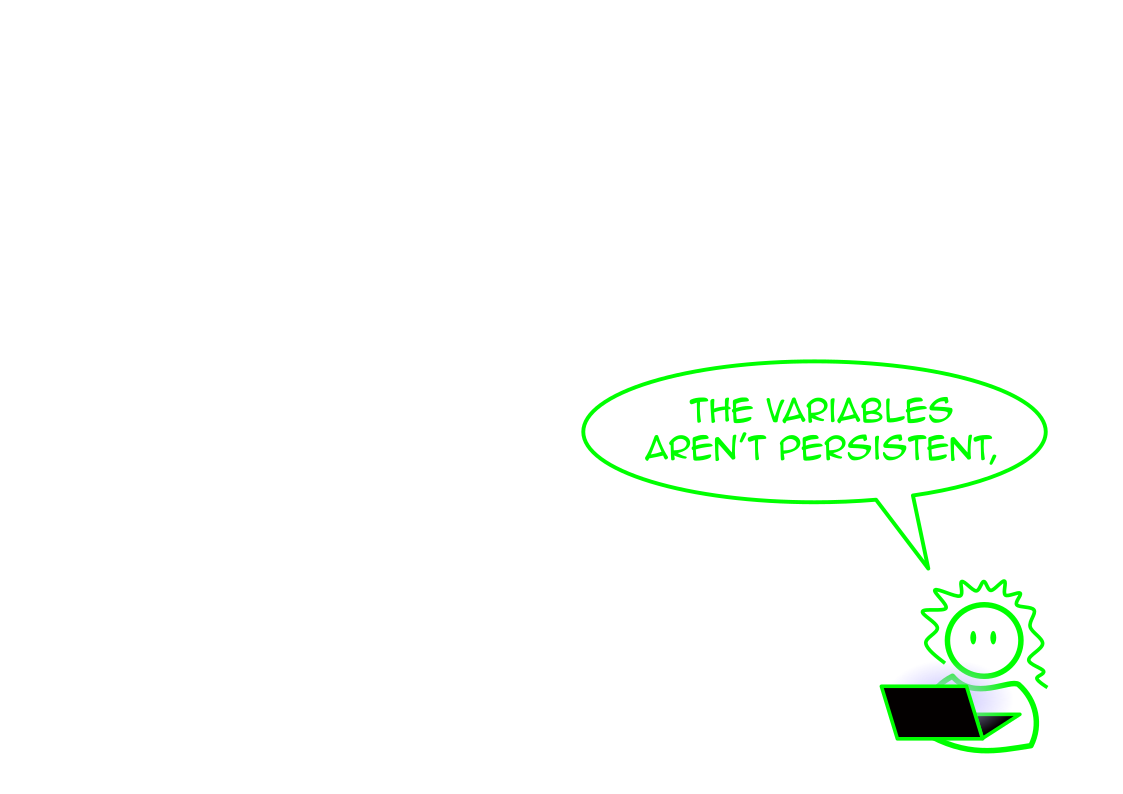
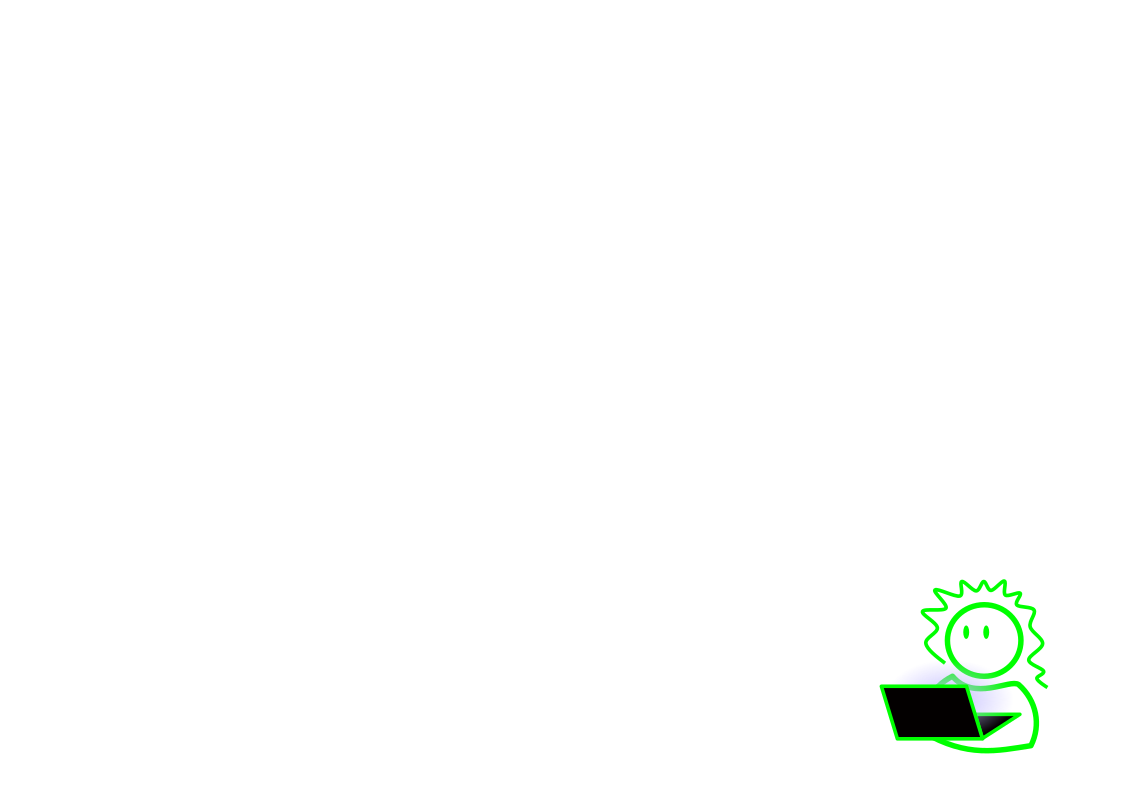
Removed some unnecessary slides, smoothed out animations.

diff --git a/index.html b/index.html
@@ -34,6 +34,12 @@
           </section>
         </section>
 
+        <section>
+          <h2>"Where's the links?"</h2>
+          <p>socketwench.github.io/avoidDeepHurting</p>
+          <small>Yeah, it's case sensitive</small>
+        </section>
+
 				<section>
           <section data-transition="none">
             <img src="images/socketwench1.png" />
@@ -63,20 +69,6 @@
             <h1>Deploying Drupal</h1>
             <h2>A history</h2>
           </section>
-          <!-- <section>
-            <pre style="font-size:1em;">
-      _________________
-    /                   \
-    |  Time to deploy!  |
-    \                   /
-      -----------------
-             \   ^__^
-              \  (oo)\_______
-                 (__)\       )\/\
-                     ||----w |
-                     ||     ||
-            </pre>
-          </section> -->
           <section>
             <h2>Remember...</h2>
             <p class="fragment">FTP&gt; <span class="blink_me">&block;</span></p>
@@ -423,14 +415,14 @@ localhost ansible_connection=local</code></pre>
              <img src="images/threeDirectories10.png" />
            </section>
            <section>
-             <h2>Ready before Go-live</h2>
-             <p class="fragment"><em>Artefacts</em> created before switchover</p>
-             <p class="fragment">Generated assets, compiled SASS, etc.</p>
-           </section>
-           <section>
              <h2>No more .gitignore hell</h2>
              <p class="fragment">Git directory only mirrors the repo</p>
              <p class="fragment">No more <code>git clean -df</code></p>
+           </section>
+           <section>
+             <h2>Ready before Go-live</h2>
+             <p class="fragment"><em>Artefacts</em> created before switchover</p>
+             <p class="fragment">Generated assets, compiled SASS, etc.</p>
            </section>
            <section>
              <h2>"Zero" downtime</h2>
@@ -662,12 +654,6 @@ localhost ansible_connection=local</code></pre>
             <img src="images/ciProcess6.png" />
           </section>
           <section>
-            <h2>Self-hosted, OSS CIs</h2>
-            <p class="fragment">Jenkins</p>
-            <p class="fragment">Circle CI</p>
-            <p class="fragment">Many others!</p>
-          </section>
-          <section>
             <h2>Gitlab CI</h2>
             <p class="fragment">Integrated with Gitlab CE</p>
             <p class="fragment">Free and OSS</p>
@@ -722,7 +708,7 @@ runner:
             <p class="fragment">...to a series of steps to execute</p>
           </section>
           <section data-transition="none">
-            <pre><code class="yaml">stages:
+            <pre><code class="yaml" style="font-size: 0.9em;">stages:
   - deploy
 
 job_live_deploy:
@@ -745,7 +731,7 @@ job_live_deploy:
 </code></pre>
           </section>
           <section data-transition="none">
-            <pre><code class="yaml">stages:
+            <pre><code class="yaml" style="font-size: 0.9em;">stages:
   - deploy
 
 job_live_deploy:
@@ -874,11 +860,6 @@ job_stage_deploy:
             <p class="fragment">Cloud identity keys (IAM)</p>
             <p class="fragment">Hash salts<span class="fragment">?</span></p>
           </section>
-          <section>
-            <h2>Not so secret "secrets"</h2>
-            <p class="fragment">Server username and group</p>
-            <p class="fragment">Varnish key</p>
-          </section>
           <section data-transition="none">
             <img src="images/whatsThePointOfCI1.png" />
           </section>
@@ -896,54 +877,32 @@ job_stage_deploy:
             <p class="fragment">Exposed as environment variables</p>
             <p class="fragment">Use to set your ansible variable</p>
           </section>
-          <section data-transition=none>
+          <section>
 <pre><code class="yaml">---
 env_name: "live"
 base_dir: "/virtual/sites/example.com"
 git_dir: "{{ base_dir }}/git"
 build_dir: "{{ base_dir }}/wip"
 web_dir: "{{ base_dir }}/src"
-
-
-
-
-
-
-</code></pre>
-          </section>
-          <section data-transition="none">
-<pre><code class="yaml">---
-env_name: "live"
-base_dir: "/virtual/sites/example.com"
-git_dir: "{{ base_dir }}/git"
-build_dir: "{{ base_dir }}/wip"
-web_dir: "{{ base_dir }}/src"
-
+</code></pre><pre class="fragment"><code class="yaml">
 db_user: "{{ lookup('env', 'LIVE_DB_USER') }}"
 db_pass: "{{ lookup('env', 'LIVE_DB_PASS') }}"
 db_name: "{{ lookup('env', 'LIVE_DB_NAME') }}"
 db_host: "{{ lookup('env', 'LIVE_DB_HOST') }}"
 db_port: "{{ lookup('env', 'LIVE_DB_PORT') }}"</code></pre>
           </section>
-          <section>
-            <img src="images/envVarsInsecure.png" />
+          <section data-transition="none" data-background-transition="none" data-background="images/envVarsInsecure.png" data-background-size="contain">
+            <p>&nbsp;</p>
           </section>
-          <section>
+          <section data-transition="none" data-background-transition="none" data-background="images/notPersistent1.png" data-background-size="contain">
             <h2>Gitlab CI env vars</h2>
             <p class="fragment">Only set during the build</p>
             <p class="fragment">Only for build's shell session</p>
           </section>
-          <section data-transition="none">
-            <img src="images/notPersistent1.png" />
-          </section>
-          <section data-transition="none">
-            <img src="images/notPersistent2.png" />
-          </section>
-          <section>
-            <h2>Alternative: Ansible Vault</h2>
-            <p class="fragment">Encrypted var file</p>
-            <p class="fragment">Store password in text file on server</p>
-            <p class="fragment"><a href="http://docs.ansible.com/ansible/playbooks_vault.html">Vault on docs.ansible.com</a></p>
+          <section data-transition="none" data-background-transition="none" data-background="images/notPersistent2.png" data-background-size="contain">
+            <h2>Gitlab CI env vars</h2>
+            <p>Only set during the build</p>
+            <p>Only for build's shell session</p>
           </section>
           <section data-transition="none" data-background-transition="none" data-background="images/whatAboutSettingsPhp1.png" data-background-size="contain">
             <p>&nbsp;</p>
@@ -1142,12 +1101,6 @@ else {
 - src: ten7.drupal-backup
 - src: ten7.drupal-deploy</code></pre>
           </section>
-          <section>
-            <pre><code class="sh">ansible-galaxy install \  # Install from Galaxy</code></pre>
-            <pre class="fragment"><code class="sh">  -f \                    # Download each time</code></pre>
-            <pre class="fragment"><code class="sh">  -r requirements.yml \   # Use a reqs file</code></pre>
-            <pre class="fragment"><code class="sh">  --ignore-errors         # Skip if github is down</code></pre>
-          </section>
           <section data-transition="none">
             <pre><code class="yaml">stages:
   - deploy
@@ -1165,45 +1118,13 @@ job_live_deploy:
             <small class="fragment">(Scroll right.)</small>
           </section>
           <section>
+            <pre><code class="sh">ansible-galaxy install \  # Install from Galaxy</code></pre>
+            <pre class="fragment"><code class="sh">  -f \                    # Download each time</code></pre>
+            <pre class="fragment"><code class="sh">  -r requirements.yml \   # Use a reqs file</code></pre>
+            <pre class="fragment"><code class="sh">  --ignore-errors         # Skip if github is down</code></pre>
+          </section>
+          <section>
             <img src="images/happyOpsPerson.png" />
-          </section>
-        </section>
-
-        <section>
-          <section>
-            <h1>Summary</h1>
-          </section>
-          <section>
-            <h2>The Repo is the Server</h2>
-            <p class="fragment">Never SSH in unless something breaks</p>
-          </section>
-          <section>
-            <h2>Everything is in the repo*</h2>
-            <p class="fragment">Use secure vars for logins and keys</p>
-          </section>
-          <section>
-            <h2>Different env, different file</h2>
-            <p class="fragment">Keep your branches the same!</p>
-          </section>
-          <section>
-            <h2>Make CI do everything</h2>
-            <p class="fragment">Varnish ban, bounce Apache, anything</p>
-          </section>
-          <section>
-            <h2>CI hurts now...</h2>
-            <p class="fragment">...so it doesn't later.</p>
-          </section>
-          <section>
-            <h2>More things to try</h2>
-            <p class="fragment">Group vars for cleaner playbooks</p>
-            <p class="fragment">Ansible <code>cron</code> module</p>
-            <p class="fragment">Offsite backup with <a href="https://galaxy.ansible.com/ten7/tractorbeam/">ten7.tractorbeam</a></p>
-          </section>
-          <section>
-            <h2>Things to read</h2>
-            <p class="fragment"><em>Continuous Integration</em> by Duvall <em>et al</em></p>
-            <p class="fragment"><em><a href="https://www.ansiblefordevops.com/">Ansible for DevOps</a></em> by Jeff Geerling</p>
-            <p class="fragment"><a href="http://docs.ansible.com/ansible/index.html">docs.ansible.com</a></p>
           </section>
         </section>
 
